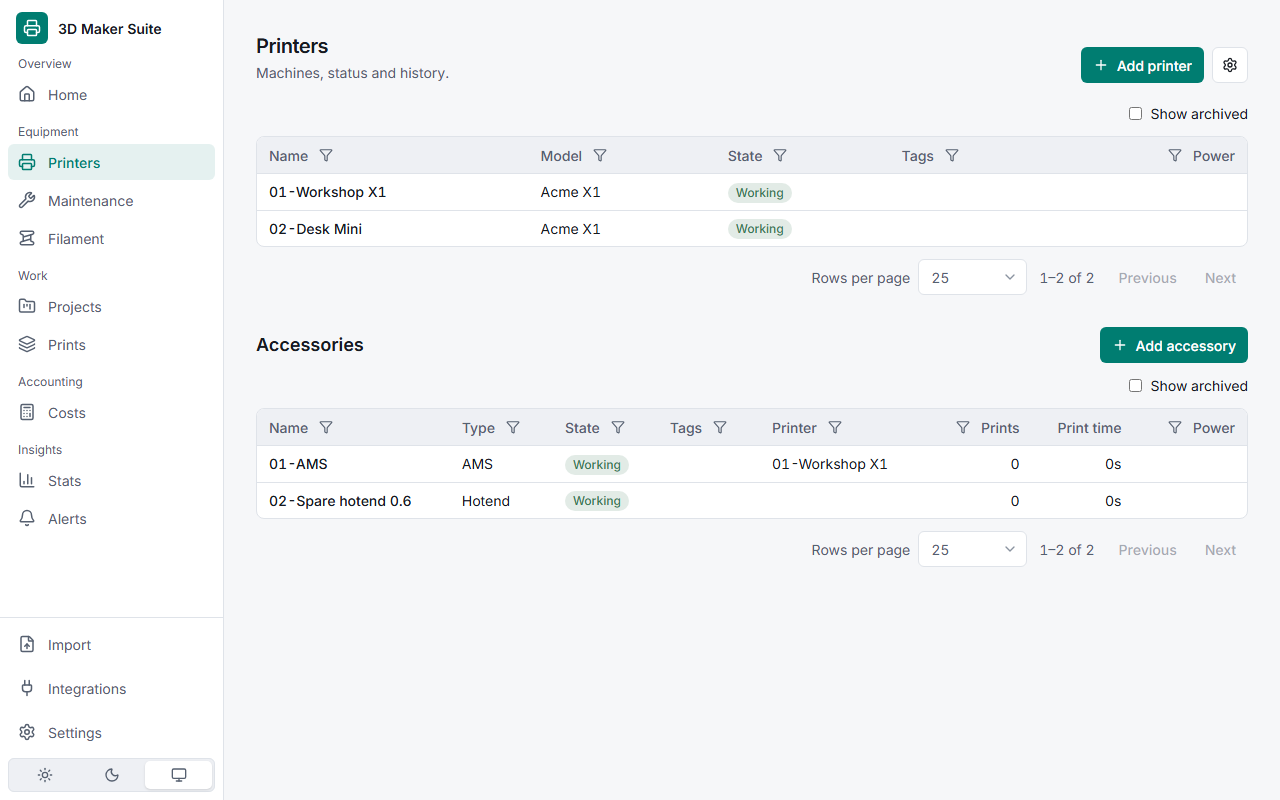
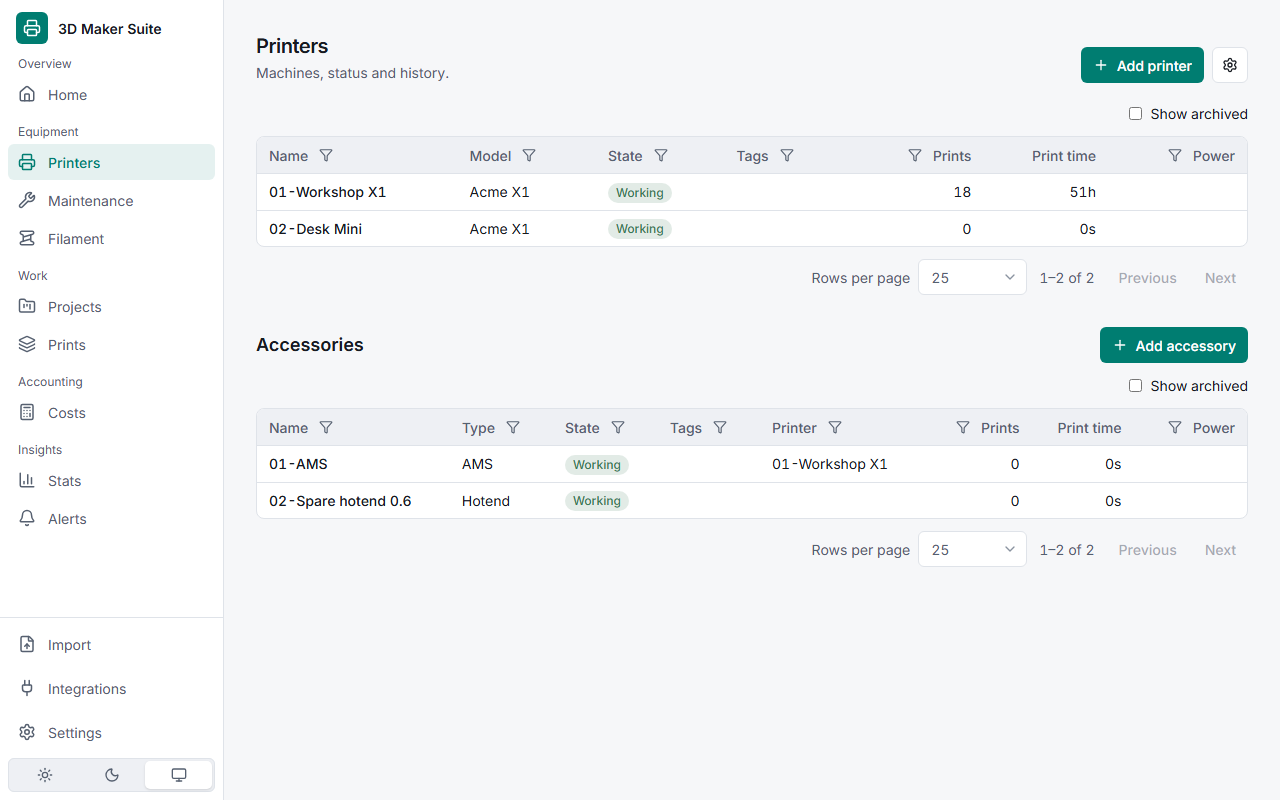
feat(printers): prints and print time columns in the printers table
Like the accessories table: lifetime usage (offsets + logged prints),
sortable, prints filterable. README printers screenshot updated. No new
dependency.

diff --git a/apps/server/src/routes/printers.ts b/apps/server/src/routes/printers.ts
@@ -5,18 +5,20 @@ import {
   listQuery,
   type Page,
   type Printer,
+  type PrinterRow,
   pageOf,
   printerCommentSchema,
   printerFilters,
   printerInputSchema,
   printerPatchSchema,
+  printerRowSchema,
   printerSchema,
   printerSortFields,
   printStatsSchema,
   summarizePrints,
 } from "@3d-maker-suite/core";
 import { type Db, schema } from "@3d-maker-suite/db";
-import { and, eq, isNotNull, isNull } from "drizzle-orm";
+import { and, eq, getTableColumns, isNotNull, isNull } from "drizzle-orm";
 import type { FastifyPluginAsyncZod } from "fastify-type-provider-zod";
 import { z } from "zod";
 import { HttpError } from "../errors.ts";
@@ -24,12 +26,14 @@ import { modelName, printerLabel } from "../lib/catalog.ts";
 import { commentRoutes } from "../lib/comments.ts";
 import { imageRoutes } from "../lib/images.ts";
 import { dateRange, listPage, taggedWith } from "../lib/list.ts";
+import { printerUsageColumns } from "../lib/maintenance.ts";
 import { assertNumberFree, nextNumber } from "../lib/numbers.ts";
 import { readPreferences } from "../lib/preferences.ts";
 
 const { printers, printerComments, printerModels, prints, accessoryInstalls } = schema;
 const params = z.object({ id: z.uuid() });
 const brandModel = modelName(printers.modelId);
+const usage = printerUsageColumns();
 const notFound = { 404: apiErrorSchema };
 
 export const printersRoutes =
@@ -64,11 +68,12 @@ export const printersRoutes =
       {
         schema: {
           querystring: listQuery(printerSortFields, { archived: archivedFilter }, printerFilters),
-          response: { 200: pageOf(printerSchema) },
+          response: { 200: pageOf(printerRowSchema) },
         },
       },
       async (req) =>
         listPage(db, printers, req.query, {
+          select: { ...getTableColumns(printers), ...usage },
           sort: {
             // The name starts with the number: sorting by it sorts the name as shown (2 before 10).
             name: printers.number,
@@ -76,6 +81,8 @@ export const printersRoutes =
             model: brandModel,
             state: printers.state,
             powerW: printers.powerW,
+            runtimeSec: usage.runtimeSec,
+            prints: usage.prints,
           },
           dateColumn: printers.createdAt,
           filters: {
@@ -83,6 +90,7 @@ export const printersRoutes =
             model: brandModel,
             state: printers.state,
             powerW: printers.powerW,
+            prints: usage.prints,
           },
           where: [
             taggedWith(db, "printer", printers.id, req.query.tagId),
@@ -90,7 +98,7 @@ export const printersRoutes =
               ? isNotNull(printers.archivedAt)
               : isNull(printers.archivedAt),
           ],
-        }) as Page<Printer>,
+        }) as Page<PrinterRow>,
     );
 
     app.post(

diff --git a/apps/web/src/pages/printers/PrintersPage.tsx b/apps/web/src/pages/printers/PrintersPage.tsx
@@ -1,7 +1,7 @@
 import {
   type Accessory,
   accessoryFilters,
-  type Printer,
+  type PrinterRow,
   printerFilters,
 } from "@3d-maker-suite/core";
 import { Link } from "@tanstack/react-router";
@@ -28,9 +28,9 @@ export function PrintersPage() {
   const stateLabel = useStateLabel();
   const states = usePreferences().data?.values.printerStates ?? [];
   const [query, setQuery] = useUrlListQuery();
-  const { data, isError } = useListPage<Printer>(["printers", "list"], "/api/printers", query);
+  const { data, isError } = useListPage<PrinterRow>(["printers", "list"], "/api/printers", query);
   // Archived printers keep the table (and its "Show archived" switch) up, even with no active ones.
-  const archived = useListPage<Printer>(["printers", "list"], "/api/printers", {
+  const archived = useListPage<PrinterRow>(["printers", "list"], "/api/printers", {
     archived: "true",
     pageSize: "1",
   });
@@ -122,6 +122,21 @@ export function PrintersPage() {
                 cell: (p) => <TagList tags={tagsOf(p.id)} />,
                 filter: "tagId",
                 filterOptions: tags.map((x) => ({ value: x.id, label: x.name })),
+              },
+              {
+                id: "prints",
+                header: t("printers:detail.stats.prints"),
+                numeric: true,
+                cell: (p) => formatNumber(p.prints),
+                sort: "prints",
+                filter: "prints",
+              },
+              {
+                id: "runtime",
+                header: t("printers:detail.stats.time"),
+                numeric: true,
+                cell: (p) => formatDuration(p.runtimeSec),
+                sort: "runtimeSec",
               },
               {
                 id: "power",

diff --git a/packages/core/src/schemas/printers.ts b/packages/core/src/schemas/printers.ts
@@ -62,7 +62,21 @@ export const printStatsSchema = z.object({
   energyWh: z.number(),
 });
 
-export const printerSortFields = ["name", "createdAt", "model", "state", "powerW"] as const;
+/** A row of the printers list: the printer plus its lifetime usage (offsets + logged prints). */
+export const printerRowSchema = printerSchema.extend({
+  runtimeSec: z.number().int().nonnegative(),
+  prints: z.number().int().nonnegative(),
+});
+
+export const printerSortFields = [
+  "name",
+  "createdAt",
+  "model",
+  "state",
+  "powerW",
+  "runtimeSec",
+  "prints",
+] as const;
 
 /** Printers table column filters (see `listQuery`). States are user-defined, so not an enum. */
 export const printerFilters = {
@@ -71,9 +85,11 @@ export const printerFilters = {
   state: { kind: "select" },
   tagId: { kind: "select" },
   powerW: { kind: "number" },
+  prints: { kind: "number" },
 } as const satisfies Record<string, ColumnFilter>;
 export const archivedFilter = z.enum(["true", "false"]).default("false");
 
+export type PrinterRow = z.infer<typeof printerRowSchema>;
 export type PrinterInput = z.infer<typeof printerInputSchema>;
 export type PrinterPatch = z.infer<typeof printerPatchSchema>;
 export type CommentInput = z.infer<typeof commentInputSchema>;

diff --git a/apps/server/src/lib/maintenance.ts b/apps/server/src/lib/maintenance.ts
@@ -25,6 +25,17 @@ export const usageOf = (db: Db, p: typeof printers.$inferSelect, upTo?: string):
   };
 };
 
+/** `usageOf` as SQL for a select (list sort/filter). Qualified: "id" in the subquery is the print's. */
+export const printerUsageColumns = () => {
+  const of = (column: string) => sql.raw(`"printers"."${column}"`);
+  const logged = (what: SQL) =>
+    sql<number>`(SELECT coalesce(${what}, 0) FROM prints p WHERE p.printer_id = ${of("id")})`;
+  return {
+    runtimeSec: sql<number>`${of("runtime_offset_sec")} + ${logged(sql`sum(p.duration_sec)`)}`,
+    prints: sql<number>`${of("prints_offset")} + ${logged(sql`count(*)`)}`,
+  };
+};
+
 /**
  * Prints of the printer an accessory was on, started inside an install period `[installedAt,
  * removedAt)`. Periods never overlap, so a print matches at most one. Aliased plain SQL: the

diff --git a/apps/server/src/printers.test.ts b/apps/server/src/printers.test.ts
@@ -111,6 +111,17 @@ describe("printers", () => {
       totalSec: 7200,
       energyWh: 200,
     });
+
+    // The list shows lifetime usage: offsets plus logged prints; sortable and filterable.
+    const old = await create({ name: "Old" });
+    db.update(schema.printers).set({ printsOffset: 5, runtimeOffsetSec: 3600 }).run();
+    const list = async (q: string) => (await app.inject(`/api/printers${q}`)).json().items;
+    expect(await list("?sort=-prints")).toMatchObject([
+      { id: p.id, prints: 7, runtimeSec: 3600 + 10800 },
+      { id: old.id, prints: 5, runtimeSec: 3600 },
+    ]);
+    expect((await list("?sort=runtimeSec"))[0].id).toBe(old.id);
+    expect(await list("?prints=6..10")).toMatchObject([{ id: p.id }]);
   });
 
   it("comments: pinned first, status, delete", async () => {
